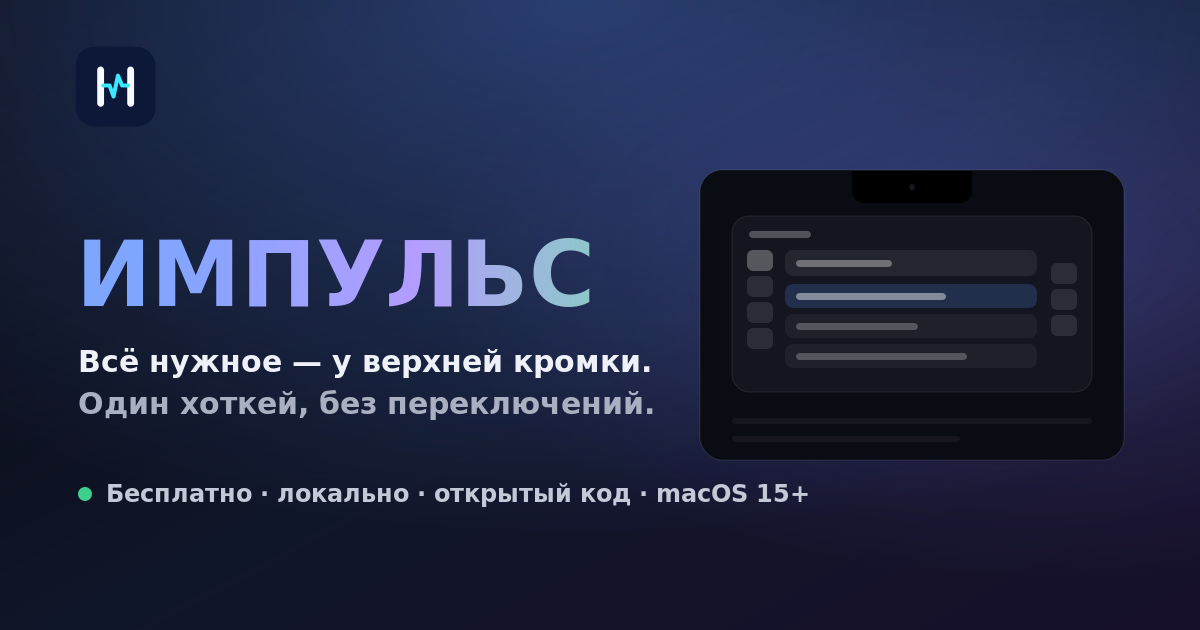
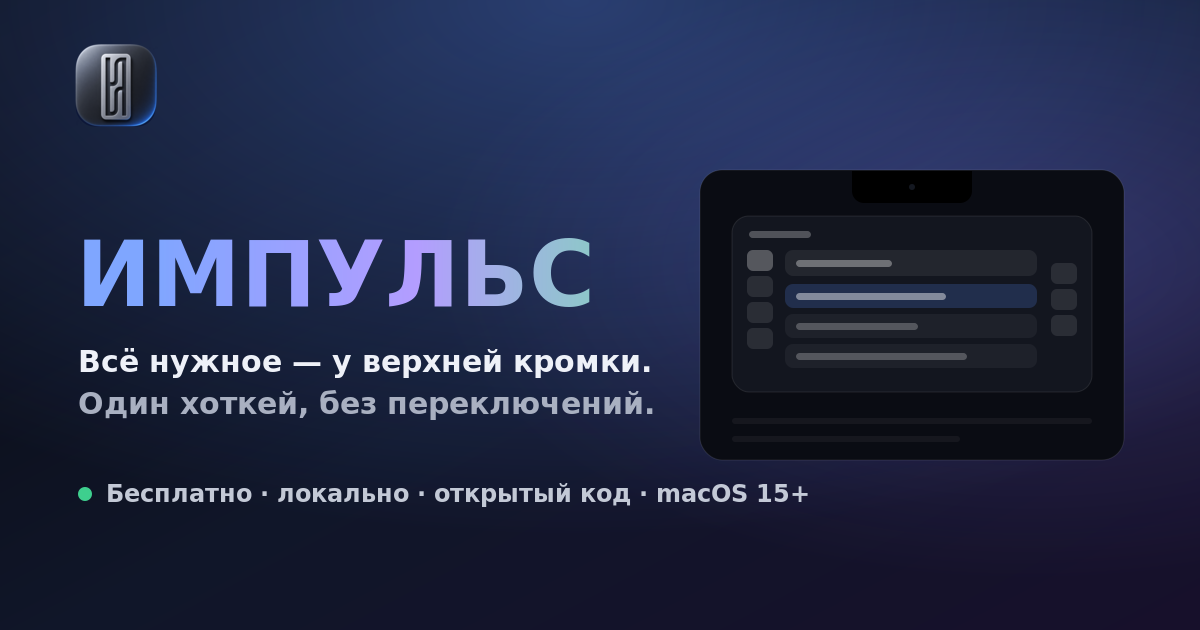
Release Impuls 1.4.3: обновить фирменную иконку

Changed region(s): [[0.0617, 0.0603, 0.1542, 0.2111]]

diff --git a/Scripts/make-icon.swift b/Scripts/make-icon.swift
@@ -1,11 +1,19 @@
 #!/usr/bin/env swift
 // Generates the macOS application icon and its matching menu-bar mark.
-// The symbol combines the two initials of «Интегра Импульс» with a pulse.
-// Usage: swift Scripts/make-icon.swift <output.icns> [status-template.png]
+// The full-resolution master is the single source of truth for every app size.
+// Usage: swift Scripts/make-icon.swift <master.png> <output.icns> [status-template.png]
 import AppKit
 
-let outPath = CommandLine.arguments.count > 1 ? CommandLine.arguments[1] : "AppIcon.icns"
-let statusPath = CommandLine.arguments.count > 2 ? CommandLine.arguments[2] : nil
+guard CommandLine.arguments.count >= 3 else {
+    fatalError("usage: make-icon.swift <master.png> <output.icns> [status-template.png]")
+}
+
+let masterPath = CommandLine.arguments[1]
+let outPath = CommandLine.arguments[2]
+let statusPath = CommandLine.arguments.count > 3 ? CommandLine.arguments[3] : nil
+guard let masterIcon = NSImage(contentsOfFile: masterPath) else {
+    fatalError("cannot read application icon master: \(masterPath)")
+}
 let iconset = URL(fileURLWithPath: NSTemporaryDirectory()).appendingPathComponent("Impuls.iconset")
 try? FileManager.default.removeItem(at: iconset)
 try FileManager.default.createDirectory(at: iconset, withIntermediateDirectories: true)
@@ -25,109 +33,20 @@ func bitmap(size s: CGFloat) -> NSBitmapImageRep {
     )!
 }
 
-func drawBrandMark(in ctx: CGContext, scale k: CGFloat, monochrome: Bool = false) {
-    let white = monochrome
-        ? CGColor(gray: 0, alpha: 1)
-        : CGColor(red: 0.97, green: 0.99, blue: 1, alpha: 1)
-    let pulse = monochrome
-        ? CGColor(gray: 0, alpha: 1)
-        : CGColor(red: 0.23, green: 0.91, blue: 1, alpha: 1)
-
-    // Twin pillars: the two words share one stable corporate monogram.
-    for x in [CGFloat(318), CGFloat(634)] {
-        let rect = CGRect(x: x * k, y: 300 * k, width: 72 * k, height: 424 * k)
-        ctx.addPath(CGPath(
-            roundedRect: rect,
-            cornerWidth: 36 * k,
-            cornerHeight: 36 * k,
-            transform: nil
-        ))
-        ctx.setFillColor(white)
-        ctx.fillPath()
-    }
-
-    // The connecting impulse turns the initials into one integrated symbol.
-    let path = CGMutablePath()
-    path.move(to: CGPoint(x: 382 * k, y: 500 * k))
-    path.addLine(to: CGPoint(x: 448 * k, y: 500 * k))
-    path.addLine(to: CGPoint(x: 490 * k, y: 616 * k))
-    path.addLine(to: CGPoint(x: 536 * k, y: 396 * k))
-    path.addLine(to: CGPoint(x: 579 * k, y: 500 * k))
-    path.addLine(to: CGPoint(x: 642 * k, y: 500 * k))
-    ctx.addPath(path)
-    ctx.setStrokeColor(pulse)
-    ctx.setLineWidth(42 * k)
-    ctx.setLineCap(.round)
-    ctx.setLineJoin(.round)
-    ctx.strokePath()
-}
-
-func drawIcon(size s: CGFloat) -> NSBitmapImageRep {
+func drawIcon(size s: CGFloat, master: NSImage) -> NSBitmapImageRep {
     let rep = bitmap(size: s)
     NSGraphicsContext.saveGraphicsState()
     NSGraphicsContext.current = NSGraphicsContext(bitmapImageRep: rep)
-    let ctx = NSGraphicsContext.current!.cgContext
-    let k = s / 1024
-
-    let body = CGRect(x: 92 * k, y: 92 * k, width: 840 * k, height: 840 * k)
-    let squircle = CGPath(
-        roundedRect: body,
-        cornerWidth: 190 * k,
-        cornerHeight: 190 * k,
-        transform: nil
+    let context = NSGraphicsContext.current!
+    context.cgContext.clear(CGRect(x: 0, y: 0, width: s, height: s))
+    master.draw(
+        in: NSRect(x: 0, y: 0, width: s, height: s),
+        from: NSRect(origin: .zero, size: master.size),
+        operation: .sourceOver,
+        fraction: 1,
+        respectFlipped: true,
+        hints: [.interpolation: NSImageInterpolation.high]
     )
-
-    ctx.saveGState()
-    ctx.setShadow(offset: CGSize(width: 0, height: -24 * k), blur: 46 * k, color: CGColor(gray: 0, alpha: 0.32))
-    ctx.addPath(squircle)
-    ctx.setFillColor(CGColor(red: 0.04, green: 0.07, blue: 0.15, alpha: 1))
-    ctx.fillPath()
-    ctx.restoreGState()
-
-    ctx.saveGState()
-    ctx.addPath(squircle)
-    ctx.clip()
-
-    let background = CGGradient(
-        colorsSpace: CGColorSpaceCreateDeviceRGB(),
-        colors: [
-            CGColor(red: 0.18, green: 0.28, blue: 0.66, alpha: 1),
-            CGColor(red: 0.05, green: 0.09, blue: 0.22, alpha: 1),
-            CGColor(red: 0.025, green: 0.04, blue: 0.10, alpha: 1)
-        ] as CFArray,
-        locations: [0, 0.58, 1]
-    )!
-    ctx.drawLinearGradient(
-        background,
-        start: CGPoint(x: body.minX, y: body.maxY),
-        end: CGPoint(x: body.maxX, y: body.minY),
-        options: []
-    )
-
-    let glow = CGGradient(
-        colorsSpace: CGColorSpaceCreateDeviceRGB(),
-        colors: [
-            CGColor(red: 0.20, green: 0.88, blue: 1, alpha: 0.22),
-            CGColor(red: 0.20, green: 0.88, blue: 1, alpha: 0)
-        ] as CFArray,
-        locations: [0, 1]
-    )!
-    ctx.drawRadialGradient(
-        glow,
-        startCenter: CGPoint(x: 300 * k, y: 770 * k),
-        startRadius: 0,
-        endCenter: CGPoint(x: 300 * k, y: 770 * k),
-        endRadius: 570 * k,
-        options: []
-    )
-
-    drawBrandMark(in: ctx, scale: k)
-    ctx.restoreGState()
-
-    ctx.addPath(squircle)
-    ctx.setStrokeColor(CGColor(gray: 1, alpha: 0.14))
-    ctx.setLineWidth(3 * k)
-    ctx.strokePath()
 
     NSGraphicsContext.restoreGraphicsState()
     return rep
@@ -140,23 +59,29 @@ func drawStatus(size s: CGFloat) -> NSBitmapImageRep {
     let ctx = NSGraphicsContext.current!.cgContext
     let k = s / 18
 
-    for x in [CGFloat(3.1), CGFloat(12.6)] {
-        let rect = CGRect(x: x * k, y: 2.8 * k, width: 2.2 * k, height: 12.4 * k)
-        ctx.addPath(CGPath(roundedRect: rect, cornerWidth: 1.1 * k, cornerHeight: 1.1 * k, transform: nil))
-        ctx.setFillColor(CGColor(gray: 0, alpha: 1))
-        ctx.fillPath()
-    }
-
-    let pulse = CGMutablePath()
-    pulse.move(to: CGPoint(x: 5.0 * k, y: 9.0 * k))
-    pulse.addLine(to: CGPoint(x: 7.0 * k, y: 9.0 * k))
-    pulse.addLine(to: CGPoint(x: 8.1 * k, y: 12.2 * k))
-    pulse.addLine(to: CGPoint(x: 9.5 * k, y: 5.7 * k))
-    pulse.addLine(to: CGPoint(x: 10.8 * k, y: 9.0 * k))
-    pulse.addLine(to: CGPoint(x: 12.9 * k, y: 9.0 * k))
-    ctx.addPath(pulse)
+    // At menu-bar size chrome and shadows become visual noise, so this keeps
+    // only the interlocking, rounded silhouette from the application icon.
+    let mark = CGMutablePath()
+    mark.move(to: CGPoint(x: 4.0 * k, y: 2.8 * k))
+    mark.addLine(to: CGPoint(x: 11.5 * k, y: 2.8 * k))
+    mark.addCurve(
+        to: CGPoint(x: 15.0 * k, y: 6.3 * k),
+        control1: CGPoint(x: 13.5 * k, y: 2.8 * k),
+        control2: CGPoint(x: 15.0 * k, y: 4.3 * k)
+    )
+    mark.addLine(to: CGPoint(x: 15.0 * k, y: 15.2 * k))
+    mark.move(to: CGPoint(x: 12.3 * k, y: 15.2 * k))
+    mark.addLine(to: CGPoint(x: 12.3 * k, y: 10.9 * k))
+    mark.addLine(to: CGPoint(x: 8.3 * k, y: 10.9 * k))
+    mark.addCurve(
+        to: CGPoint(x: 5.7 * k, y: 8.3 * k),
+        control1: CGPoint(x: 6.9 * k, y: 10.9 * k),
+        control2: CGPoint(x: 5.7 * k, y: 9.8 * k)
+    )
+    mark.addLine(to: CGPoint(x: 5.7 * k, y: 2.8 * k))
+    ctx.addPath(mark)
     ctx.setStrokeColor(CGColor(gray: 0, alpha: 1))
-    ctx.setLineWidth(1.55 * k)
+    ctx.setLineWidth(2.35 * k)
     ctx.setLineCap(.round)
     ctx.setLineJoin(.round)
     ctx.strokePath()
@@ -170,7 +95,7 @@ for (size, name) in [
     (128, "icon_128x128"), (256, "icon_128x128@2x"), (256, "icon_256x256"), (512, "icon_256x256@2x"),
     (512, "icon_512x512"), (1024, "icon_512x512@2x")
 ] {
-    let data = drawIcon(size: CGFloat(size)).representation(using: .png, properties: [:])!
+    let data = drawIcon(size: CGFloat(size), master: masterIcon).representation(using: .png, properties: [:])!
     try data.write(to: iconset.appendingPathComponent("\(name).png"))
 }
 

diff --git a/docs/index.html b/docs/index.html
@@ -13,7 +13,8 @@
 <meta name="color-scheme" content="light dark">
 <link rel="canonical" href="https://tumanovnv.github.io/impuls/">
 <link rel="manifest" href="manifest.webmanifest">
-<link rel="icon" href="assets/impuls-icon.svg" type="image/svg+xml">
+<link rel="icon" href="assets/impuls-icon.png" sizes="512x512" type="image/png">
+<link rel="apple-touch-icon" href="assets/impuls-icon.png">
 <!-- Nothing here counts the modules or claims to list them all: the set changes
      with every release, and a number in a shared link cannot be corrected later. -->
 <meta property="og:title" content="ИМПУЛЬС для macOS — один хоткей вместо десятка переключений">
@@ -22,14 +23,14 @@
 <meta property="og:site_name" content="Impuls">
 <meta property="og:locale" content="ru_RU">
 <meta property="og:url" content="https://tumanovnv.github.io/impuls/">
-<meta property="og:image" content="https://tumanovnv.github.io/impuls/assets/og-impuls.png">
+<meta property="og:image" content="https://tumanovnv.github.io/impuls/assets/og-impuls-1.4.3.png">
 <meta property="og:image:width" content="1200">
 <meta property="og:image:height" content="630">
 <meta property="og:image:alt" content="ИМПУЛЬС — панель у верхней кромки экрана Mac">
 <meta name="twitter:card" content="summary_large_image">
 <meta name="twitter:title" content="ИМПУЛЬС для macOS — один хоткей вместо десятка переключений">
 <meta name="twitter:description" content="Панель у верхней кромки экрана: то, за чем обычно лезешь в другое приложение, — под рукой. Бесплатно и локально.">
-<meta name="twitter:image" content="https://tumanovnv.github.io/impuls/assets/og-impuls.png">
+<meta name="twitter:image" content="https://tumanovnv.github.io/impuls/assets/og-impuls-1.4.3.png">
 <script type="application/ld+json" id="software-schema">
 {
   "@context": "https://schema.org",
@@ -52,8 +53,8 @@
       "codeRepository": "https://github.com/TumanovNV/impuls",
       "author": {"@type": "Organization", "name": "Интегра Импульс"},
       "publisher": {"@type": "Organization", "name": "Интегра Импульс"},
-      "image": "https://tumanovnv.github.io/impuls/assets/og-impuls.png",
-      "screenshot": "https://tumanovnv.github.io/impuls/assets/og-impuls.png",
+      "image": "https://tumanovnv.github.io/impuls/assets/og-impuls-1.4.3.png",
+      "screenshot": "https://tumanovnv.github.io/impuls/assets/og-impuls-1.4.3.png",
       "softwareRequirements": "macOS 15 or later; Apple Silicon or Intel",
       "isAccessibleForFree": true,
       "offers": {"@type": "Offer", "price": "0", "priceCurrency": "RUB"},
@@ -146,9 +147,8 @@ header{position:sticky;top:0;z-index:60;backdrop-filter:blur(18px) saturate(1.6)
 header.stuck{border-bottom-color:var(--line)}
 .nav{display:flex;align-items:center;gap:28px;height:62px}
 .brand{display:flex;align-items:center;gap:9px;font-weight:640;letter-spacing:-.02em;font-size:16px}
-.mark{width:28px;height:28px;border-radius:9px;display:grid;place-items:center;
-  background:linear-gradient(145deg,#2e47a8,#0d1738 58%,#070b1a);box-shadow:0 4px 16px rgba(91,140,255,.28)}
-.mark svg{width:19px;height:19px;display:block}
+.mark{width:28px;height:28px;display:block;flex:0 0 auto}
+.mark img{width:100%;height:100%;display:block}
 .nav nav{display:flex;gap:24px;margin-left:12px}
 .nav nav a{font-size:13.5px;color:var(--muted);transition:color .2s}
 .nav nav a:hover{color:var(--text)}
@@ -541,7 +541,6 @@ footer{border-top:1px solid var(--line);padding:44px 0 56px;font-size:13px;color
   }
   body::after{opacity:.016}
   header{background:rgba(247,248,251,.76)}
-  .mark{background:linear-gradient(145deg,#5478d7,#243d8b 58%,#18234b);box-shadow:0 4px 16px rgba(58,95,196,.24)}
   .btn-primary,.mobile-cta{background:linear-gradient(160deg,#4a6ed0,#3158bd)}
   .btn-ghost:hover{border-color:rgba(24,32,52,.28)}
   .hero .btn-ghost{color:#315fbd}
@@ -570,7 +569,7 @@ footer{border-top:1px solid var(--line);padding:44px 0 56px;font-size:13px;color
 <header id="hdr">
   <div class="wrap nav">
     <a href="#top" class="brand" aria-label="Impuls — к началу страницы">
-      <span class="mark"><svg viewBox="0 0 24 24" aria-hidden="true"><rect x="5" y="4" width="2.8" height="16" rx="1.4" fill="#fff"/><rect x="16.2" y="4" width="2.8" height="16" rx="1.4" fill="#fff"/><path d="M7 12h2.3l1.5 4 1.6-8 1.5 4H17" fill="none" stroke="#3ae8ff" stroke-width="1.7" stroke-linecap="round" stroke-linejoin="round"/></svg></span>
+      <span class="mark"><img src="assets/impuls-icon.png" alt=""></span>
       Impuls
     </a>
     <nav aria-label="Основная навигация">
@@ -1035,7 +1034,7 @@ footer{border-top:1px solid var(--line);padding:44px 0 56px;font-size:13px;color
     <div class="frow">
       <div>
         <div class="brand" style="margin-bottom:8px">
-          <span class="mark"><svg viewBox="0 0 24 24" aria-hidden="true"><rect x="5" y="4" width="2.8" height="16" rx="1.4" fill="#fff"/><rect x="16.2" y="4" width="2.8" height="16" rx="1.4" fill="#fff"/><path d="M7 12h2.3l1.5 4 1.6-8 1.5 4H17" fill="none" stroke="#3ae8ff" stroke-width="1.7" stroke-linecap="round" stroke-linejoin="round"/></svg></span> Impuls
+          <span class="mark"><img src="assets/impuls-icon.png" alt=""></span> Impuls
         </div>
         <div data-i="ft.tag">Нативная утилита для macOS. Локально по умолчанию.</div>
       </div>

diff --git a/Sources/Impuls/App/AppDelegate.swift b/Sources/Impuls/App/AppDelegate.swift
@@ -131,11 +131,35 @@ final class AppDelegate: NSObject, NSApplicationDelegate, NSMenuDelegate {
             return image
         }
 
-        let fallback = NSImage(
-            systemSymbolName: "waveform.path.ecg",
-            accessibilityDescription: "Impuls"
-        )
-        fallback?.isTemplate = true
+        let fallback = NSImage(size: NSSize(width: 18, height: 18), flipped: false) { _ in
+            guard let context = NSGraphicsContext.current?.cgContext else { return false }
+            let mark = CGMutablePath()
+            mark.move(to: CGPoint(x: 4.0, y: 2.8))
+            mark.addLine(to: CGPoint(x: 11.5, y: 2.8))
+            mark.addCurve(
+                to: CGPoint(x: 15.0, y: 6.3),
+                control1: CGPoint(x: 13.5, y: 2.8),
+                control2: CGPoint(x: 15.0, y: 4.3)
+            )
+            mark.addLine(to: CGPoint(x: 15.0, y: 15.2))
+            mark.move(to: CGPoint(x: 12.3, y: 15.2))
+            mark.addLine(to: CGPoint(x: 12.3, y: 10.9))
+            mark.addLine(to: CGPoint(x: 8.3, y: 10.9))
+            mark.addCurve(
+                to: CGPoint(x: 5.7, y: 8.3),
+                control1: CGPoint(x: 6.9, y: 10.9),
+                control2: CGPoint(x: 5.7, y: 9.8)
+            )
+            mark.addLine(to: CGPoint(x: 5.7, y: 2.8))
+            context.addPath(mark)
+            context.setStrokeColor(CGColor(gray: 0, alpha: 1))
+            context.setLineWidth(2.35)
+            context.setLineCap(.round)
+            context.setLineJoin(.round)
+            context.strokePath()
+            return true
+        }
+        fallback.isTemplate = true
         return fallback
     }
 

diff --git a/docs/site-privacy.html b/docs/site-privacy.html
@@ -8,7 +8,8 @@
   <meta name="robots" content="index,follow">
   <meta name="theme-color" content="#0a0a0c">
   <link rel="canonical" href="https://tumanovnv.github.io/impuls/site-privacy.html">
-  <link rel="icon" href="assets/impuls-icon.svg" type="image/svg+xml">
+  <link rel="icon" href="assets/impuls-icon.png" sizes="512x512" type="image/png">
+  <link rel="apple-touch-icon" href="assets/impuls-icon.png">
   <style>
     :root{color-scheme:dark;--bg:#08080a;--surface:#111217;--line:#272933;--text:#f2f3f7;--muted:#a2a5b2;--accent:#7fa6ff}
     *{box-sizing:border-box}body{margin:0;background:radial-gradient(800px 460px at 50% -10%,#182447 0,transparent 70%),var(--bg);color:var(--text);font:16px/1.7 -apple-system,BlinkMacSystemFont,"SF Pro Text","Segoe UI",sans-serif;-webkit-font-smoothing:antialiased}
@@ -18,7 +19,7 @@
 </head>
 <body>
   <div class="nav"><div class="wrap" style="display:flex;align-items:center;width:min(820px,calc(100% - 40px))">
-    <a href="./"><img class="mark" src="assets/impuls-icon.svg" alt="">Impuls</a>
+    <a href="./"><img class="mark" src="assets/impuls-icon.png" alt="">Impuls</a>
     <a class="back" href="./">← Вернуться на сайт</a>
   </div></div>
   <main class="wrap">

diff --git a/docs/releases/1.4.3.md b/docs/releases/1.4.3.md
@@ -1,0 +1,13 @@
+## Обновление фирменного знака
+
+- Impuls получил новый объёмный знак с тёмной графитовой основой, серебристой монограммой и синим контурным свечением.
+- Иконка приложения, значок в строке меню, favicon, иконка для установки сайта и изображение карточки ссылки теперь используют единую визуальную систему.
+- Для строки меню создана отдельная монохромная версия знака: она корректно подстраивается под светлое и тёмное оформление macOS и остаётся различимой в компактном размере.
+
+---
+
+## Brand refresh
+
+- Impuls now uses a dimensional graphite-and-silver brand mark with a blue edge glow.
+- The macOS app icon, menu-bar symbol, favicon, install icon, and social preview now share one visual system.
+- The menu bar has a dedicated monochrome mark that remains clear at compact sizes and adapts to macOS appearances.
